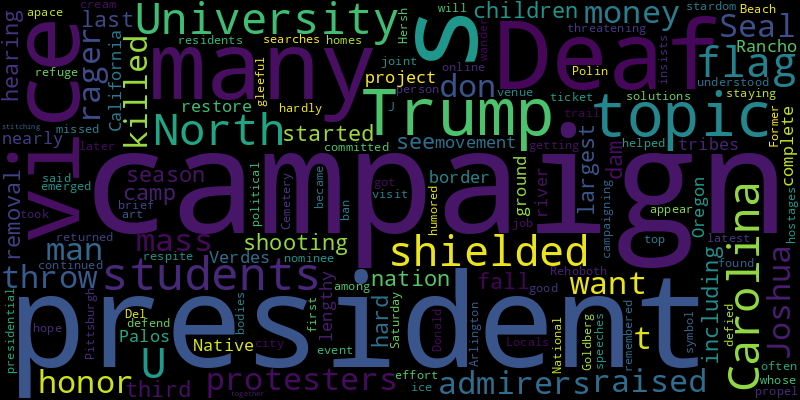
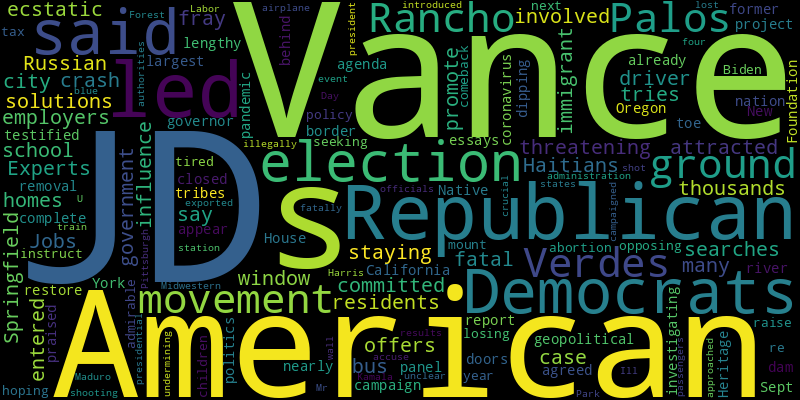
chore(bot): 🐐 auto commit

diff --git a/README.md b/README.md
@@ -2,41 +2,41 @@
 Auto RSS New York Times and Generate Word Cloud
 
 ## New York Times Global News
-* A labor strike across much of the country reflected outrage over the deaths of six hostages in Gaza. On Sunday night, thousands of protesters demanded that Israel reach a cease-fire and hostage deal with Hamas.
+* In strikes and protests, many Israelis are pushing their government to prioritize the release of hostages above the immediate defeat of Hamas. Prime Minister Benjamin Netanyahu has refused to change course.
 * Hamas leaders spent years developing an underground warfare plan. Records from the battlefield show the group’s preparations, including blast doors to protect against Israeli bombs and soldiers.
+* Watch out for Good Samaritans with ulterior motives, packages in your mail and college students looking to make a quick buck, China tells its people.
+* Indonesia is proud of its religious diversity and its reputation for tolerance, but minorities, including Catholics, still face discrimination.
+* Diplomat Karen Pierce has built alliances with Trump officials and the Biden-Harris administration. But with her term set to end next year, the U.K. government has a dilemma over her replacement.
 * “They are like a bleeding wound, and no one sees it,” a schoolteacher said of her pupils, many of whom have fled frontline areas or lost family members in the fighting.
 * The attack, the third large-scale bombardment in a week, coincided with intense fighting in eastern Ukraine and Russia.
-* The far-right Alternative for Germany, or AfD, had a very successful night in two states, despite its state chapters’ classification as “extremist” by German domestic intelligence.
-* The 11-day trip, a signal that Francis does not intend to slow down, requires nearly 45 hours of air travel and meetings in tropical climates.
-* Thick fog was a factor in the May crash that killed President Ebrahim Raisi, an armed forces investigation found. His death shook Iran at a strained moment for the country.
+* The Russian president is making a state visit to a country that is heavily dependent on Moscow for oil.
 * A man is accused of drugging his wife and then inviting dozens of men to rape her over almost a decade. The questions raised by the case have unsettled the country.
-* For competition partners who share the mutual goal of winning medals, eye contact or a simple touch can be all the communication that’s needed.
-* Some vegetables cost more than they have in five years. Top Chinese officials have made a point of showing that they’re doing something about it.
+* The far-right Alternative for Germany, or AfD, had a very successful night in two states, despite its state chapters’ classification as “extremist” by German domestic intelligence.
 
 ![Global](./global.png)
 ## New York Times United States News
-* After students at the University of North Carolina shielded a U.S. flag from protesters, admirers raised money to throw a ‘rager’ in their honor. Some don’t want it.
-* Joshua Seal, a Deaf man killed in a mass shooting last fall, did not get to see the third season of the camp he started. But 22 Deaf or hard-of-hearing children did, including his own.
-* The nation’s largest dam removal project is nearly complete after a lengthy campaign by Native tribes to restore the river at the California-Oregon border.
 * The movement of the ground in Rancho Palos Verdes is threatening homes. But as the city searches for solutions, many residents are committed to staying.
-* The vice president will appear with the president in Pittsburgh at their first joint campaign event since she took over the top of the ticket.
-* The president returned to his refuge in Rehoboth Beach, Del., and hardly emerged as his job continued apace. Locals understood, but said they missed getting ice cream with him.
-* The vice-presidential nominee got a brief respite from the campaign trail to visit the venue that helped propel him to online stardom.
-* It was the latest effort by the Trump campaign to defend itself after the campaign defied a ban on political campaigning at Arlington National Cemetery.
-* Hersh Goldberg-Polin was among the hostages whose bodies were found on Saturday. Many remembered him as a gleeful and good-humored person — who later became a symbol of hope.
-* Former President Donald J. Trump’s speeches often wander from topic to topic. He insists there is an art to stitching them all together.
+* Jobs attracted thousands of Haitians to Springfield, and employers were ecstatic. But then an immigrant driver was involved in a fatal school bus crash. And JD Vance entered the fray.
+* Experts say the case offers a window into how the Russian government tries to influence American elections and promote its own geopolitical agenda.
+* The nation’s largest dam removal project is nearly complete after a lengthy campaign by Native tribes to restore the river at the California-Oregon border.
+* The former New York governor, who has already testified behind closed doors to the Republican-led House panel investigating the coronavirus pandemic, has agreed to appear on Sept. 10.
+* JD Vance, as he was dipping his toe into politics, praised the Heritage Foundation report — 29 essays opposing abortion and seeking to instruct Americans on how to raise children — as “admirable.”
+* Democrats are tired of losing to Republicans on tax policy. They’re hoping to mount a comeback next year.
+* The Biden administration said the airplane had been illegally exported for Mr. Maduro. U.S. officials accuse him of undermining the results of a presidential election he lost.
+* The president introduced his No. 2, Kamala Harris, at a Labor Day event in Pittsburgh as the Democrats campaigned in crucial Midwestern “blue wall” states.
+* The authorities said four passengers were fatally shot as the train approached a station in Forest Park, Ill. It was unclear what led to the shooting.
 
 ![US](./usnews.png)
 ## New York Times Asia News
+* Ukrainian officials expressed outrage over the Russian leader’s visit, warning it would seek to “ensure that this has consequences” for Mongolia.
+* The Hong Kong airline has canceled dozens of flights to inspect Airbus A350 planes since it found a problem with a Rolls-Royce engine in one of them.
+* Indonesia is proud of its religious diversity and its reputation for tolerance, but minorities, including Catholics, still face discrimination.
+* Both major presidential candidates now say they oppose the proposed takeover of the industrial giant by Nippon Steel of Japan.
+* Watch out for Good Samaritans with ulterior motives, packages in your mail and college students looking to make a quick buck, China tells its people.
+* A real estate collapse has made consumers cautious and businesses wary, as China confronts a crisis unlike any other since it opened its economy to the world.
+* Plus, Europe’s overwhelmed destinations.
+* Mr. Gao is being held on suspicion of slandering China’s heroes and martyrs, an offense punishable by up to three years in prison, his brother said.
 * The 11-day trip, a signal that Francis does not intend to slow down, requires nearly 45 hours of air travel and meetings in tropical climates.
-* Some vegetables cost more than they have in five years. Top Chinese officials have made a point of showing that they’re doing something about it.
-* The United States condemned the episode near Sabina Shoal in the South China Sea and reaffirmed its defense treaty with Manila.
-* Grueling shifts, abuse from the public and subpar security are nothing new to medical workers in India, where a ghastly killing has put a spotlight on their plight.
-* The tribute to Sir Thomas Stamford Raffles, who is considered the founder of Singapore, has raised questions about how the wealthy city-state perceives its history.
-* Decades after they were looted, artifacts reclaimed from museums and collections around the world were welcomed home in a lavish ceremony and museum display.
-* The sales of intelligence agency data raised awkward questions as the nation is expanding military information sharing with the United States.
-* A report withheld since 2019 has finally been released, providing damning evidence of sexual misconduct and gender discrimination in Malayalam cinema.
-* The weakened storm still packed heavy rain and strong winds. It has killed six people, injured over 120 and had prompted evacuation orders for millions.
-* The king, who had held the title for 18 years, was praised by New Zealand’s prime minister for his “unwavering commitment to his people.”
+* This fall the Metropolitan Museum of Art’s facade will feature strange, humanoid sculptures. If they induce a feeling of nausea, that’s what Lee was going for.
 
 ![Asian](./asian.png)
